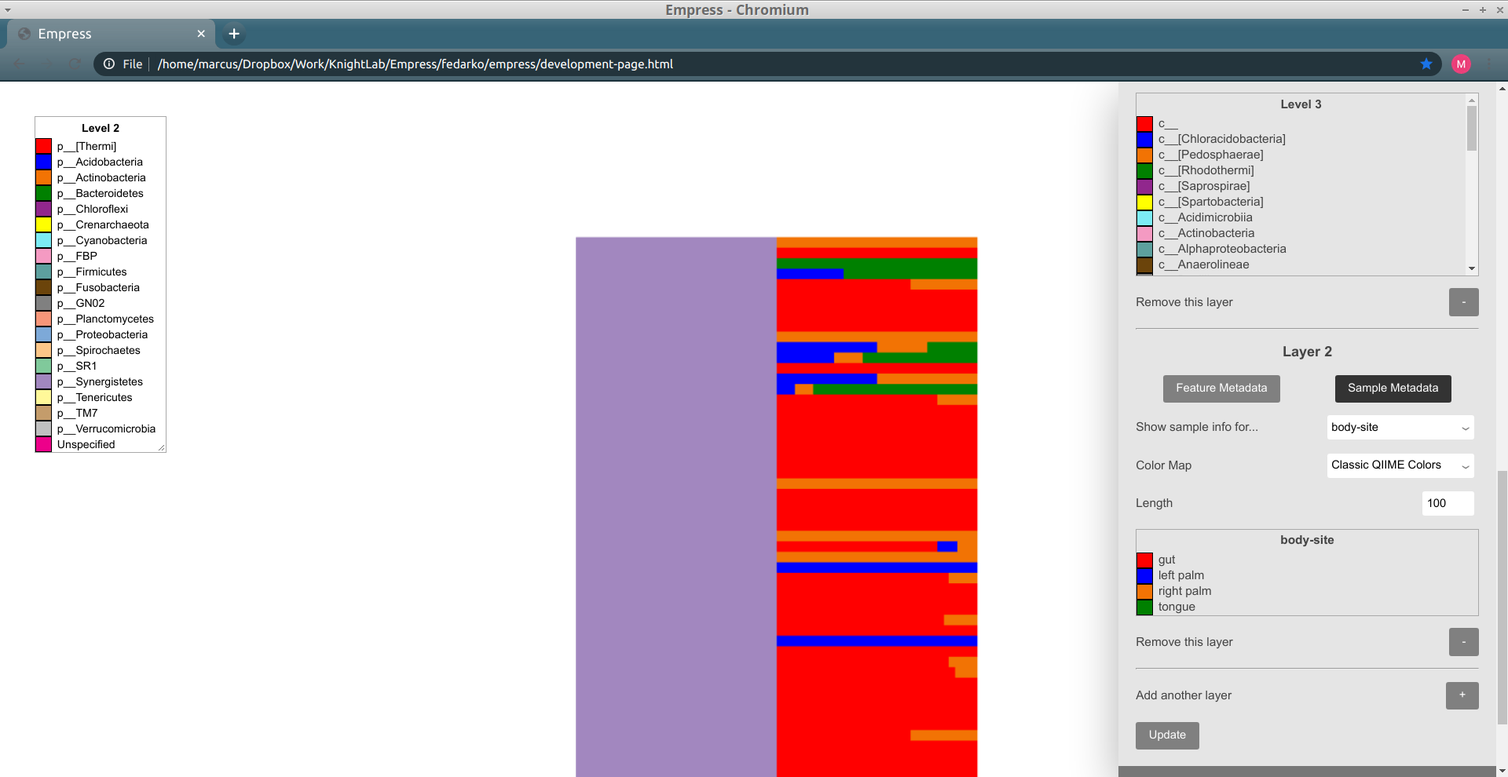
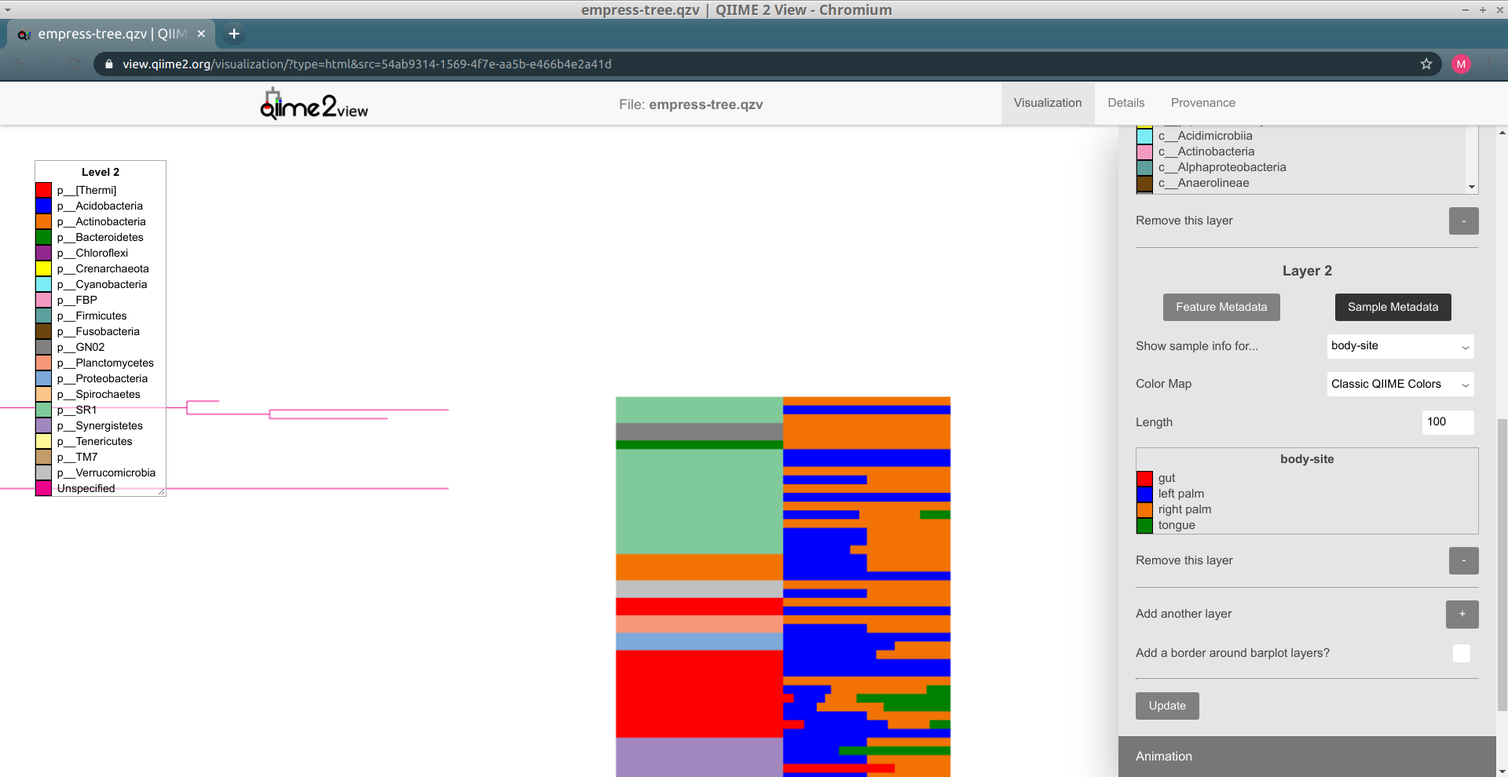
Update README screenshots/text; document Empire plot double-clicking; add citation, header image, etc. (#415)
* DOC: update README + screenshots

Addresses #413, but we should probs leave that open and change it
to an issue focused on making McHelper do this from now on ._.

* DOC: rm old imgs

replacing insets with gifs for ease of replication

* DOC: polish readme a bit more

* Make wording a bit more intuitive

"integration with animations" as implied didn't make sense

* Tidy MP intro

* external node -> tip for consistency's sake

* also

* leaf sorting clostridia fix

* fix barplot scrnsht 5

* rm ambiguity re: topmost node

* grammar and corynebact

* better cbact wording

* Document double-clicking in empire plots

* whoops and add gif

* clarify top screenshot caption

* to the left to the left

* grammarz

* something something spanish inquisition

* clarify that gg is optional

* be more conservative abt unspecifieds

* clarify unspecified paragraph more

* q2 2020.6 in links -> q2 2020.8

losing battle to maintain this but may as well make it right for now

* Phyla fix, and mention lack of color sync

* clarify matching stuff more

* clarify actinobacteria thing

* uncapitalize and fix phylum usage

* fix wording in gut/hand sample

* Rename double click gif

My adblocker was blocking it??? from
https://webmasters.stackexchange.com/a/26395 looks like this was
probs due to the "doubleclick" in the filename. argh.

* add note re hard-to-see colors

* spaces instead of tabs in bibtex

* Update README.md

* Update README.md

diff --git a/README.md b/README.md
@@ -5,18 +5,32 @@
 
 # Introduction  
 
-Empress is a fast and scalable [phylogenetic tree](https://en.wikipedia.org/wiki/Phylogenetic_tree) viewer that helps interactively explore the hierarchical relationships between features in a dataset. While historically these features often represented evolutionary relationships of species in community surveys, and are characterized by their phylogeny or genetic similarity/differences, you can in fact view any type of information with hierarchical organization. For example, you can view trees of [amplicon sequence variants (ASVs)](https://en.wikipedia.org/wiki/Amplicon_sequence_variant) for 16S rRNA marker gene sequencing data, or metabolite trees of LC-MS data using [q2-qemistree](https://github.com/biocore/q2-qemistree) ([ref](https://www.biorxiv.org/content/10.1101/2020.05.04.077636v1)).
+Empress is a fast and scalable [phylogenetic tree](https://en.wikipedia.org/wiki/Phylogenetic_tree) viewer that helps interactively explore the hierarchical relationships between features in a dataset.
+
+While historically these features have often represented evolutionary relationships of species in community surveys, and are characterized by their phylogeny or genetic similarity/differences, you can in fact view any type of information with hierarchical organization. For example, you can view trees of [amplicon sequence variants (ASVs)](https://en.wikipedia.org/wiki/Amplicon_sequence_variant) generated from 16S rRNA marker gene sequencing data, or metabolite trees of LC-MS data using [q2-qemistree](https://github.com/biocore/q2-qemistree) ([ref](https://www.biorxiv.org/content/10.1101/2020.05.04.077636v1)).
+
+Empress supports categorically new functionality, such as animations and
+integration with ordination plots, as well as functionality common to
+established tree viewers (e.g. metadata coloring, clade collapsing,
+and barplots).
+
+## Screenshot
+
+![Fancy Empire plot](docs/moving-pictures/img/empire_fancy.png)
+<div align="center">
+<i>"Empire plot" visualizing a phylogenetic tree of amplicon sequence variants (ASVs) in Empress, left, alongside a PCoA biplot in Emperor, right. As one of the ways in which these displays are integrated, selecting a tip in the tree (representing an ASV) enlarges the samples containing this ASV in Emperor -- thereby providing more information than would be available from either display alone.</i>
+</div>
 
 # Installation   
 
-Currently, Empress is only accessible as a QIIME 2 plugin. To follow this tutorial you will need to have a QIIME 2 (version 2019.10 or newer) conda environment installed and activated. See the [QIIME 2 installation](https://docs.qiime2.org/2020.6/install/) page for installation instructions.  
+Currently, Empress is only accessible as a QIIME 2 plugin. To follow the tutorial below you'll need to have a QIIME 2 (version 2019.10 or newer) conda environment installed and activated. See the [QIIME 2 installation](https://docs.qiime2.org/2020.8/install/) page for installation instructions.  
 Once you have QIIME 2 installed, make sure the conda environment is activated by running:
 
 ```
-conda activate qiime2-2020.6
+conda activate qiime2-2020.8
 ```
 
-You can replace `qiime2-2020.6` above with whichever version of QIIME 2 you have currently installed.  
+You can replace `qiime2-2020.8` above with whichever version of QIIME 2 you have currently installed.  
 
 Now we are ready to install Empress. Run the following commands to do so. (Note
 that Emperor will be _re-installed_ when the second command is run; the reason
@@ -32,9 +46,10 @@ qiime empress --help
 
 If you see information about Empress' QIIME 2 plugin, the installation was successful!
 
-# Example: Using Empress in QIIME 2   
+# Tutorial: Using Empress in QIIME 2   
 
-In this tutorial we will be using Empress within the QIIME 2 environment, and demonstrating its basic usage with the [Moving Pictures tutorial](https://docs.qiime2.org/2020.6/tutorials/moving-pictures/) dataset, a set of human microbiome samples from two individuals at four body sites across five timepoints.
+In this tutorial, we'll use Empress through QIIME 2 and demonstrate its basic usage with the [Moving Pictures tutorial](https://docs.qiime2.org/2020.8/tutorials/moving-pictures/) dataset. This dataset contains human microbiome samples from
+two individuals at four body sites across five timepoints.
 
 ## First, a note about Empress' commands
 
@@ -68,18 +83,18 @@ Both of these commands generate similar visualizations. The functionality availa
 
 ## Downloading Input Artifacts and Metadata  
 
-Before we start, we’ll need to download the necessary input artifacts for running `qiime empress community-plot`. The first four of these artifacts are produced during the [Moving Pictures tutorial](https://docs.qiime2.org/2020.6/tutorials/moving-pictures/), and the last artifact was produced afterwards using data from the tutorial. These artifacts are:
+Before we start, we’ll need to download the necessary input artifacts for running `qiime empress community-plot`. The first four of these artifacts are produced during the [Moving Pictures tutorial](https://docs.qiime2.org/2020.8/tutorials/moving-pictures/), and the last artifact was produced afterwards using data from the tutorial. These artifacts are:
 
 1. A feature table (a QIIME 2 artifact of type `FeatureTable[Frequency]`)
 2. A sample metadata file (a [tab-separated-value](https://en.wikipedia.org/wiki/Tab-separated_values) file)
 3. A rooted tree (a QIIME 2 artifact of type `Phylogeny[Rooted]`)
 4. Taxonomic assignments of our features (a QIIME 2 artifact of type `FeatureData[Taxonomy]`)
 5. A PCoA biplot results file (a QIIME 2 artifact of type `PCoAResults % Properties('biplot')`)
-    - This artifact in particular was produced by the [`qiime diversity pcoa`](https://docs.qiime2.org/2020.6/plugins/available/diversity/pcoa-biplot/) plugin, but ordinations / biplots created by other tools (e.g. [DEICODE](https://github.com/biocore/DEICODE/)) also work well with Empress.
+    - This artifact in particular was produced by the [`qiime diversity pcoa`](https://docs.qiime2.org/2020.8/plugins/available/diversity/pcoa-biplot/) plugin, but ordinations / biplots created by other tools (e.g. [DEICODE](https://github.com/biocore/DEICODE/)) also work well with Empress.
 
 The last item is required only when displaying an Empress tree plot in tandem with an Emperor PCoA plot/biplot (a.k.a. an Empire plot!)
 
-You can download these files individually by clicking the links below, or using `wget` to download them directly from your terminal.  
+You can download these files individually by clicking the links below or by using `wget` to download them directly from your terminal.  
 
 - `table.qza` [view](https://view.qiime2.org/?src=https%3A%2F%2Fdocs.qiime2.org%2F2019.10%2Fdata%2Ftutorials%2Fmoving-pictures%2Ftable.qza) | [download](https://docs.qiime2.org/2019.10/data/tutorials/moving-pictures/table.qza)
 - `sample_metadata.tsv` [download](https://data.qiime2.org/2019.10/tutorials/moving-pictures/sample_metadata.tsv)
@@ -87,14 +102,14 @@ You can download these files individually by clicking the links below, or using 
 - `taxonomy.qza` [view](https://view.qiime2.org/?src=https%3A%2F%2Fdocs.qiime2.org%2F2019.10%2Fdata%2Ftutorials%2Fmoving-pictures%2Ftaxonomy.qza) | [download](https://docs.qiime2.org/2019.10/data/tutorials/moving-pictures/taxonomy.qza)
 - `biplot.qza` [view](https://view.qiime2.org/?src=https%3A%2F%2Fraw.githubusercontent.com%2Fbiocore%2Fempress%2Fmaster%2Fdocs%2Fmoving-pictures%2Fbiplot.qza) | [download](https://raw.githubusercontent.com/biocore/empress/master/docs/moving-pictures/biplot.qza)
 
-First we’ll create a directory to download our files to and change into it:  
+First we’ll create a directory which we'll download our files to and move into it:
 
 ```bash
 mkdir empress-tutorial
 cd empress-tutorial
 ```
 
-Now download the files:   
+Now we'll download the files using `wget`:
 ```bash
 wget https://docs.qiime2.org/2019.10/data/tutorials/moving-pictures/table.qza
 wget https://data.qiime2.org/2019.10/tutorials/moving-pictures/sample_metadata.tsv
@@ -103,11 +118,13 @@ wget https://docs.qiime2.org/2019.10/data/tutorials/moving-pictures/taxonomy.qza
 wget https://raw.githubusercontent.com/biocore/empress/master/docs/moving-pictures/biplot.qza
 ```
 
-We are now ready to create our interactive tree plot.  
+We are now ready to visualize this data using Empress.
 
 ## Empress Plot  
 
-We’ll start with a simple stand-alone tree visualization artifact and explore our tree using the various features in Empress.
+We’ll start by creating a simple stand-alone tree visualization artifact, which
+will enable us to explore the tree using the various functionalities available
+in Empress.
 
 ```bash
 qiime empress community-plot \
@@ -119,51 +136,63 @@ qiime empress community-plot \
 ```
 - `empress-tree.qzv` [view](https://view.qiime2.org/?src=https%3A%2F%2Fmchelper.ucsd.edu%2Fdownloads%2Fempress%2Fmaster%2Fempress-tree.qzv) | [download](https://mchelper.ucsd.edu/downloads/empress/master/empress-tree.qzv)
 
-To view the newly made `empress-tree.qzv` artifact, you can drag and drop the file onto [https://view.qiime2.org/](https://view.qiime2.org/) or load it locally by running:   
+To view the newly made `empress-tree.qzv` artifact, you can drag and drop the file onto [https://view.qiime2.org/](https://view.qiime2.org/) or load it locally by running:
 
 ```bash
 qiime tools view empress-tree.qzv
 ```
 ![empress_plain](docs/moving-pictures/img/empress_plain.png)
 
-The starting plot is a simple unrooted tree which has all the normal properties of a phylogenetic tree. The outermost “tips” of the tree are referred to as “leaves”, “terminal nodes”, or “external nodes” and here represent a unique ASV. The line connected to this external node is referred to as a “branch”. A branch connects two or more nodes, in this case an external node to an internal node. These internal nodes represent a divergent point between nodes and the branch length represents the evolutionary distance between divergence points.
+The starting plot is a simple unrooted tree which has all the normal properties of a phylogenetic tree. The outermost “tips” of the tree are also referred to as “leaves”, “terminal nodes”, or “external nodes” and here represent a unique ASV. The line connected to a tip is referred to as a “branch”. A branch connects two or more nodes, or in this case a tip to an internal node. These internal nodes represent a divergent point between nodes and the branch length represents the evolutionary distance between divergence points.
 You can use your mouse’s scroll wheel to zoom in and out, and click and drag anywhere on the plot to move the display to take a closer look at the various tree components. On the top-right we see a display menu with several subcategories that allow us to customize the plot. We will explore these options in more detail below.  
 
 
 ### Exploring individual features  
 
-The first thing you likely noticed in this plot is the presence of several very long branches that stand out relative to the others. Let’s investigate these further. Zoom in on the external node of the longest branch and click on the node.   
+The first thing you likely noticed in this plot is the presence of several very long branches that stand out relative to the others. Let’s investigate these further. Zoom in on the tip of the longest branch and click on the node.   
 
+![empress_plain_first_outlier](docs/moving-pictures/img/empress_plain_first_outlier.png)
 
-A new menu appears with details about the selected node, including its name and taxonomic assignment. You’ll notice that this feature has -unexpectedly- only been classified at the Kingdom level, meaning that our feature-classifier was not able to find a suitable match in our reference database (Greengenes).  More often than not, these features correspond to non-biological reads such as chimeras, contaminants, or reads that have [index-hopped](https://www.illumina.com/content/dam/illumina-marketing/documents/products/whitepapers/index-hopping-white-paper-770-2017-004.pdf) from other samples. We will explore these possibilities further later. Also note that the tree used in this tutorial was built using the common *de novo* tree-building approach and it has previously been shown that the presence of these outlier branches in *de novo* trees can lead to artificial clustering of samples [(Janssen et. al 2018)](https://msystems.asm.org/content/3/3/e00021-18).
-In this window we can also select to view details about sample-metadata related to this feature. From the drop down menu select `body-site` and click the *Add* button. A new *Sample Presence Information* summary table appears which displays the number of samples containing the selected feature. We can see that our ASV is present in only 1 *left palm* sample. You can select multiple metadata columns. While the table here does not give us information about the abundance of this feature, we can easily search the feature name in the [feature table summary visualization](https://view.qiime2.org/visualization/?src=https%3A%2F%2Fdocs.qiime2.org%2F2020.6%2Fdata%2Ftutorials%2Fmoving-pictures%2Ftable.qzv&type=html) artifact created previously in Moving Pictures tutorial. From there we see that this particular feature has a total abundance of 2, which is another strong indicator of a non-biological read. Try clicking the external nodes in a few other outlier branches. Do you see a similar pattern? Now try clicking on an external node of one of the shorter branches. Notice the much improved classification!
+A new menu appears with details about the selected node, including its name and taxonomic assignment. You’ll notice that this feature has only been classified at the Kingdom level, meaning that our feature-classifier was not able to find a suitable match in the reference database used to assign these taxonomy classifications (in this case, Greengenes). More often than not, these features correspond to non-biological reads such as chimeras, contaminants, or reads that have [index-hopped](https://www.illumina.com/content/dam/illumina-marketing/documents/products/whitepapers/index-hopping-white-paper-770-2017-004.pdf) from other samples. We will explore these possibilities further later.
 
-![empress_search_feature](docs/moving-pictures/img/empress_search_features.png)
+We should also note that the tree used in this tutorial was built using the common *de novo* tree-building approach, and it has previously been shown that the presence of these outlier branches in *de novo* trees can lead to artificial clustering of samples [(Janssen et. al 2018)](https://msystems.asm.org/content/3/3/e00021-18).
+
+In this window we can also view details about sample metadata related to this feature. From the drop-down menu select `body-site` and click the *Add* button. A new *Sample Presence Information* summary table appears which displays the number of samples containing the selected feature.
+
+![empress_plain_first_outlier_2](docs/moving-pictures/img/empress_plain_first_outlier_2.png)
+
+We can see that our ASV is present in only 1 *left palm* sample. You can select multiple metadata columns. While the table here does not give us information about the abundance of this feature, we can easily search the feature name in the [feature table summary visualization](https://view.qiime2.org/visualization/?src=https%3A%2F%2Fdocs.qiime2.org%2F2020.8%2Fdata%2Ftutorials%2Fmoving-pictures%2Ftable.qzv&type=html) artifact created previously in the QIIME 2 Moving Pictures tutorial. From there we see that this particular feature has a total abundance of 2, which is another strong indicator of a non-biological read. Try clicking the tips in a few other outlier branches. Do you see a similar pattern? Now try clicking on a tip of one of the shorter branches. Notice the much improved classification!
 
 We can also locate specific features of interest using the search bar at the top of the main menu. For example, in our feature-table the most abundant ASV is `4b5eeb300368260019c1fbc7a3c718fc`. Paste this name in to the search bar and click *Search*.  
-The feature’s external node is now highlighted on the tree as a bright green circle. The most abundant ASV is a species belonging to the Bacteroides genus.  
+This feature’s tip in the tree is now highlighted with a bright green circle.
+It looks like this ASV is a species belonging to the _Bacteroides_ genus, and
+is present in all of the four "body sites" included in this data (although it's
+only present in one tongue sample).
+
+![empress_search_feature](docs/moving-pictures/img/empress_search_features.png)
 
 
 ### Exploring groups of features
 
-Another way of exploring the classification of our features is to color the branches based on their taxonomic designation. From the main menu, click *Feature Metadata Coloring*, check the *Color by…* box and select *Level 2* which here corresponds to the Phylum level, and click *Update*.  
+Another way of exploring the classification of our features is to color the branches based on their taxonomic designation. From the main menu, click *Feature Metadata Coloring*, check the *Color by…* box, select *Level 2* (which here corresponds to the phylum level), and click *Update*.
 
 ![empress_unrooted_feature_coloring](docs/moving-pictures/img/empress_unrooted_feature_coloring.png)
 
-The plot is now updated so each branch is now colored by its Phylum level classification. We can see that the extra long branches are all the same color. Hover the cursor over the legend box and scroll to the bottom. The magenta color corresponds to an *Unspecified* Phylum. You may also have noticed that these outlier branches appear mainly in 2 distinct clusters. While we don’t have any more information about the classification of these features, perhaps we can gain some more insight regarding their classification by looking at their closest common ancestors that do have taxonomic information.   
+The plot is now updated so each branch is now colored by its phylum-level classification. We can see that the extra long branches are now mostly the same magenta color. Check out the legend on the left side of the screen -- it turns out that the magenta color corresponds to an *Unspecified* phylum. You may also have noticed that these outlier branches appear mainly in 2 distinct clusters. While we don’t have any more information about the classification of these features, perhaps we can gain some more insight regarding their classification by looking at their closest common ancestors that do have taxonomic information.   
 
 ### Exploring a feature’s closest common ancestors  
 
 So far, we’ve looked at our data using the default unrooted tree view. To visually locate these features’ closest common ancestors, it may be easier to switch to a different layout. From the main menu, click *Layout* then select *Circular* (or *Rectangular*). Our plot automatically switches to a rooted layout.
 
-Now zoom into the longest branch of the top cluster and click on the closest external node that has a different Phylum classification (light blue).   
+![empress_circular_feature_coloring](docs/moving-pictures/img/empress_circular_feature_coloring.png)
+
+Now, let's zoom into the longest branch of the bottom cluster of *Unspecified* nodes and click on one of the close tips that has a different phylum classification (light blue).   
 
 ![empress_circular_common_ancestor](docs/moving-pictures/img/empress_circular_common_ancestor.png)
 
 Interestingly, we see that this node is classified as _Acanthamoeba Palestinensis_ which is actually not a bacteria but rather a protozoa. It is not uncommon for certain Eukaryotes to appear in bacterial/archaeal reference databases as they may share a similar genetic lineage. Remember that mitochondria and chloroplasts likely evolved from prokaryotes themselves. Explore a few other common ancestral nodes from different outlier branches. We can see other surprising appearances by _Cucurbita pepo_ (a variety of squash or pumpkin), _Raphanus sativus_ (radish), and _Streptophyta_ (an order of plants). Based on these results one might speculate that our *Unspecified* features likely also belong to either plants or protozoa groups rather than bacteria. Further, since these features appear only on the palm samples, it’s possible the source of these are in fact environmental contaminants rather than common human microbes.  
 
-In summary, given the branch length of these features, their very low abundance, lack of close matches in the reference database, and having non-microbial closest common ancestors, it is probably safe to filter these features from our table as non-biologically relevant reads.  
-
+Summarizing things for these *Unspecified*-phylum features: in general, given their relatively long branch lengths, their presence in few samples in the study in some cases at relatively low abundance, their lack of close matches in the reference database, and the fact that they are putatively related to non-microbial features, it may be safe to filter them from our table as non-biologically relevant reads. (That conclusion is just based on the results of this exploratory analysis, not a strict guideline.)
 
 ### Identifying group-specific features   
 
@@ -171,7 +200,7 @@ The composition of microbial communities of the gut, tongue, and palms are very 
 
 ![empress_sample_metadata_coloring](docs/moving-pictures/img/empress_sample_metadata_coloring.png)
 
-In this plot the colored branches represent lineages that are unique to the corresponding body site while the greyed branches are those that are shared across at least 2 body-sites and thus cannot be displayed with a single color. While it is not surprising to see a large number of unique features in the gut samples (red) compared to the palm samples (blue and orange), it is interesting to see a large number of unique features between the left and right palm. Can you think of any biological reasons why the left and right palms may contain such different unique microbes? Even though the left and right palm do harbor unique features, the representative clades appear more integrated among themselves, suggesting that their phylogeny are still more similar to each other than the gut taxa which appear to cluster mainly among themselves.  
+In this plot the colored branches represent lineages that are unique to the corresponding body site, while the uncolored branches are those that are shared across at least 2 body sites and thus cannot be displayed with a single color. While it is not surprising to see a large number of unique features in the gut samples (red) compared to the palm samples (blue and orange), it is interesting to see a large number of unique features between the left and right palm. Can you think of any biological reasons why the left and right palms may contain such different unique microbes? Even though the left and right palm do harbor unique features, the representative clades appear more integrated among themselves, suggesting that their phylogeny are still more similar to each other than the gut taxa which appear to cluster mainly among themselves.  
 
 ### Visualizing feature / sample metadata in barplots
 
@@ -213,7 +242,7 @@ Since both the node colorings and the barplot layer are now showing the same inf
 
 ![empress barplots: class coloring and tree phylum coloring](docs/moving-pictures/img/empress_barplots_4.png)
 
-Things still seem mostly the same as before, but some of the large groups of phyla have now been split up into collections of different classes. Notice how the lavender-colored class is present at roughly five separate "clusters" throughout the tree: are all of these the same class? We can tell from the legend for this layer (under the heading `Level 3`) that there is only one class colored lavender here, `c__Clostridia`.
+Things still seem mostly the same as before, but some of the large groups of phyla have now been split up into collections of different classes. Notice how the lavender-colored class is present at multiple "clusters" throughout the tree: are all of these the same class? We can tell from the legend for this layer (under the heading `Level 3`) that there is only one class colored lavender here, `c__Clostridia`.
 
 So, these lavender classes are all *Clostridia*. Does it make sense that representatives of this class are spread out throughout the tree so much? Unfortunately, yes, since *Clostridia* are -- to quote [Wikipedia](https://en.wikipedia.org/wiki/Clostridia) -- "a highly [polyphyletic](https://en.wikipedia.org/wiki/Polyphyly) class." (As an exercise, we recommend trying out adding on extra barplot layers for lower levels of taxonomy -- order, family, genus, etc. -- and seeing how things change.)
 
@@ -237,7 +266,9 @@ Layer 2 now shows a stacked barplot for each tip, based on the proportions of sa
 
 ![empress barplots: zoomed in on barplots: class coloring layer 1, bodysite layer 2](docs/moving-pictures/img/empress_barplots_7.png)
 
-The top-most tip is only present in right palm samples (colored orange), the second-from-the-top tip is only present in gut samples (colored red), and so on. The length taken up by a "block" for a given tip is proportional to how many samples of that type contain the tip (relative to the total number of samples containing the tip; it's [not absolute](https://github.com/biocore/empress/issues/322)) -- so the fourth-from-the-top tip, for example, is present in mostly tongue samples but also present (albeit in fewer) left palm samples. When we click on this tip (name `9f1913b781d2cde1c8a4c57b7dc2ab83`) in the tree, we can see that this matches up with the _Sample Presence Information_ `body-site` summary for this tip: it's present in 2 tongue samples and 1 left palm sample.
+The top-most tip is only present in right palm samples (colored orange), the second-from-the-top tip is only present in left palm samples (colored blue), and so on. The length taken up by a "block" for a given tip is proportional to how many samples of that type contain the tip (relative to the total number of samples containing the tip; it's [not absolute](https://github.com/biocore/empress/issues/322)).
+
+These sample metadata barplots should match up with the `Sample Presence Information` -- try clicking on the top-most tip, `35bfc371d940cffdc527b7b4dc954456`. We know from the barplot that this tip is only present in one right palm sample, and the `Sample Presence Information` summary by `body-site` for this tip confirms this.
 
 #### Barplots of continuous feature metadata
 
@@ -288,7 +319,14 @@ Currently, certain elements of the display (e.g. barplots, collapsed clades) are
 
 ## Empire plots! Side-by-side integration of tree and PCoA plots  
 
-Now that you are familiar with basics, let’s try something a bit more advanced. One of the unique features of Empress is its ability to integrate a tree plot with an [Emperor](http://biocore.github.io/emperor) PCoA plot and visualize them side-by-side (these plots are internally referred to as Empire plots). To achieve this we provide a PCoA matrix (`PCoAResults` type artifact), which can be any beta diversity distance matrix, including biplots. Ordination biplots that are made using the [`qiime diversity pcoa-biplot`](https://docs.qiime2.org/2020.6/plugins/available/diversity/pcoa-biplot/) plugin, incorporate feature loadings represented by arrows that describe explanatory variables in the dataset. This functionality is also compatible with [`DEICODE` biplots](https://github.com/biocore/deicode). In this example we’ll use a PCoA biplot calculated using Unweighted UniFrac distances. To create this new plot, run the following:
+Now that you are familiar with basics, let’s try something a bit more advanced. One of the unique features of Empress is its ability to integrate a tree plot with an [Emperor](http://biocore.github.io/emperor) ordination plot and visualize them side-by-side (we've taken to calling these Empire plots).
+
+To achieve this, we can provide a QIIME 2 artifact of the type `PCoAResults` to `qiime empress community-plot`. (Note that although the type is `PCoAResults` this can be any ordination matrix; it's totally possible to visualize the results of PCA, or even a biplot, here instead.)
+
+Biplots include feature loadings represented by arrows that describe explanatory variables (in this case, ASVs) in the dataset.  Here, we'll visualize a PCoA biplot made using the [`qiime diversity pcoa-biplot`](https://docs.qiime2.org/2020.8/plugins/available/diversity/pcoa-biplot/) plugin. This biplot was computed using Unweighted [UniFrac](https://en.wikipedia.org/wiki/UniFrac) distances. (This functionality is also compatible with [`DEICODE` biplots](https://github.com/biocore/deicode), of course.)
+
+To visualize an Empire plot (both the tree and this PCoA biplot together), run
+the following command:
 
 ```bash
 qiime empress community-plot \
@@ -304,30 +342,56 @@ qiime empress community-plot \
 
 - `empire-biplot.qzv` [view](https://view.qiime2.org/?src=https%3A%2F%2Fmchelper.ucsd.edu%2Fdownloads%2Fempress%2Fmaster%2Fempire-biplot.qzv) | [download](https://mchelper.ucsd.edu/downloads/empress/master/empire-biplot.qzv)
 
-Load the new Empire plot. Here we see the Empress plot as before on the left, and on the right is an Emperor PCoA biplot. If you are unfamiliar with Emperor plots, you can learn more about them [here](http://biocore.github.io/emperor). Briefly, each individual circle represents a single sample’s microbial community and the distances between these circles corresponds to the Unweighted UniFrac distance between them in a reduced dimensional space. The top 10 explanatory features are shown as arrows alongside their id names. The number of features that is shown on the biplot is determined by the `--p-number-of-features` parameter.
-For clarity, let’s remove the long feature-id labels. Right click anywhere on the Emperor plot and select *Toggle label visibility*. Next, in Emperor, from the main menu click on *Select a color category* and select `body-site` under the *scatter* subheading. Now our samples are color coded based on their body site origin. Notice the clear clustering of these sample-types. Next, click on the same drop-down menu and this time under the *biplot* subheading select `Level 2`. Now we can see the top explanatory features (arrows) colored by their Phyla designation. Switch over to Empress, change the plot layout to *Circular*, and set the *Feature metadata coloring* to `Level 2` also. Minimize the menu bar to fully appreciate the plots!   
+Load the new Empire plot. Here we see the Empress plot as before on the left, and on the right is an Emperor PCoA biplot. If you are unfamiliar with Emperor plots, you can learn more about them [here](http://biocore.github.io/emperor). Briefly, each individual circle represents a single sample’s microbial community and the distances between these circles corresponds to the Unweighted UniFrac distance between them in a reduced dimensional space. The top 10 explanatory features are shown as arrows alongside their feature IDs. The number of features that is shown on the biplot is determined by the `--p-number-of-features` parameter.
+
+At first, the plot may look a bit messy. For clarity, let’s remove the long feature ID labels. Right click anywhere on the Emperor plot and select *Toggle label visibility*. Next, in Emperor, from the main menu click on *Select a color category* and select `body-site` under the *scatter* subheading. Now our samples are color-coded based on their body site origin. Notice the clear clustering of these sample-types. Next, click on the same drop-down menu and this time under the *biplot* subheading select `Level 2`. Now we can see the top explanatory features (arrows) colored by their phylum-level classification. Switch over to Empress, change the plot layout to *Circular*, and set the *Feature Metadata Coloring* to `Level 2` also. Minimize the menu bar to fully appreciate the plots!   
 
 ![empire_plain](docs/moving-pictures/img/empire_plain.png)
 
-### Interacting with tree-PCoA plots  
+(Note that the tree and arrow colorings don't necessarily match up between Empress and Emperor—for example, in the screenshot above Actinobacteria-phylum arrows are colored red in Emperor but Actinobacteria-phylum nodes are colored orange in Empress. If you'd like, you can change the arrow colors in Emperor to match the colors Empress assigned. Fixing this is [on our radar](https://github.com/biocore/empress/issues/369).)
 
-Looking at our Emperor plot, we see a single feature from the Actinobacteria Phylum (small red arrow) that is associated with the palm samples. Click on this arrow; two changes automatically occur: 1) on the Emperor plot, the samples that contain that feature will go dim, and 2) in Empress, the plot will zoom in on the external node corresponding to that feature, where you can explore the feature’s details further as before.  
+### Interacting with Empire plots  
+
+Looking at our Emperor ordination plot (on the right), we see a single feature classified in the phylum Actinobacteria (a small red arrow) that is associated with the palm samples. It's pointing towards the bottom-right of the ordination, when looking at it in the default camera position.
+
+Click on this arrow (you may have to zoom in a bit in Emperor to do so). Two changes will automatically occur:
+
+1. In Empress, the plot will zoom in on the node corresponding to this feature
+   and open a menu. From here, you can explore the details for this feature
+   (which it turns out was classified as _Corynebacterium_ sp.) further,
+   just like we did before.
+2. On the Emperor plot, the samples that contain this feature will be enlarged,
+   clearly highlighting them in contrast to the other samples that do not
+   contain this feature.
 
 ![empire_feature_arrow_selection](docs/moving-pictures/img/empire_feature_arrow_selection.png)
 
-This interaction between Empress and Emperor can go the other direction. Selecting a node on the Empress plot will dim the samples in Emperor in which that feature is present in.  
+This interaction between Empress and Emperor can go the other direction. Selecting a node on the Empress plot will enlarge the samples in Emperor in which that feature is present.
 
-Another way to explore our data is to select samples on Emperor and look for the corresponding features in Empress. In Emperor, hold the shift button and draw a box around a sample. The Empress plot will now temporarily highlight the branches corresponding to that sample. If you select multiple samples from different body-sites, Empress will only highlight the branches/nodes that are unique to those sample types. The shared branches remain grey. Let’s see how we can utilize this function in our dataset.   
-You may have noticed that in the Emperor plot, one of the *Right Palm* samples, is strangely clustering closer to the gut samples rather than the other palm samples. On Emperor, select some of the gut samples as well as some of the palm samples from the right hand side, taking care to not include the outlier palm sample on the left. On the Empress plot you will see several branches light up as either red, orange, or blue. These colors represent the unique features found in only that body-site, shared features are left grey.  
+Another way to explore our data is to select samples on Emperor and look for the corresponding features present in these samples in Empress. In Emperor, hold the shift button and draw a box around a sample. The Empress plot will now temporarily highlight the branches corresponding to that sample. If you select multiple samples from different body-sites, Empress will only highlight the branches/nodes that are unique to those sample types. The shared branches remain uncolored. Let’s see how we can utilize this function in our dataset.
 
+You may have noticed that in the Emperor plot one of the *Right Palm* samples is strangely clustering closer to the gut samples rather than the other palm samples. On Emperor, select some of the gut samples as well as some of the palm samples from the right hand side, taking care to not include the outlier palm sample on the left. On the Empress plot you will see several branches light up as either red, orange, or blue. These colors represent the unique features found in only that body-site; shared features are left uncolored.  
 
-![empire_sample_selection_gut_and_palm](docs/moving-pictures/img/empire_sample_selection_gut_and_palm.png)
+![empire_sample_selection_gut_and_palm](docs/moving-pictures/img/empire_sample_selection_gut_and_palm.gif)
 
-Once the samples have been deselected (within a couple of seconds), select the outlier palm sample + one of the gut samples. What do you notice? You’ll see that there are very few unique orange branches light up, suggesting that this sample shares many more features with the gut samples than the other palm samples.  
+Once the samples have been deselected (within a couple of seconds), select the outlier palm sample + one of the gut samples. What do you notice? You’ll see that comparatively few unique red or orange branches light up, suggesting that this sample shares many more features with the gut samples than the other palm samples.
 
-![empire_sample_selection_outlierpalm_plus_gut](docs/moving-pictures/img/empire_sample_selection_outlierpalm_plus_gut.png)
+![empire_sample_selection_outlierpalm_plus_gut](docs/moving-pictures/img/empire_sample_selection_outlierpalm_plus_gut.gif)
 
 This is a good example of when your data can tell you something about your metadata that you may have missed. In reality, in this experiment, this palm sample was in fact mislabelled by accident.  
+
+The integration between Empress and Emperor can go even further than this.
+Rather than selecting a group of samples manually, we may want to just select
+all samples in a certain group (e.g. for this dataset, all gut samples at
+once), to show which features are present in these samples. This can be done by
+double-clicking on a sample coloring category in Emperor, as shown below:
+
+![empire_groupselection](docs/moving-pictures/img/empire_groupselection.gif)
+
+This makes it easy to get a quick glance at which parts of the tree are "used"
+within a certain group of samples. (If you have a hard time viewing certain colors
+on the tree—for example, distinguishing the blue color for left palm samples from the
+default dark-gray node color—you may want to adjust the sample group colors in Emperor.)
 
 ## Additional Considerations
 
@@ -382,6 +446,26 @@ The commands in this README use the *raw dataset*. The Empire plot command remov
 <!---# Animations   
 
 One unique feature that makes Empress useful for exploring time-series data or making exciting presentations is its animation capability, which allows us to stratify and view our data at each time point rather than all at once. To set up the animation sequence, click on the Animation section from the main menu. From the *Gradient* drop-down menu, select `days-since-experiment-start`, the number of unique values in this column will be equal to the number of sequences we see in the final animation. From the *Trajectory* drop-down menu, select `body-site`, this will be the grouping factor by which the branch colors will be set to. Remember that colors on the plot represent branches unique to that group, branches that are shared between groups are not colored. Click on the `Start` button to initiate the animation and minimize the menu to view the full plot. You will begin to see a sequence of plots (automatically changing every few seconds) that represent the data at each time point found in the *days-since-experiment-start* column. At any point you can pause the animation by clicking on the `Pause` button and manually browse through the time points using the `Next Frame`, `Previous Frame`, or `Resume` buttons. Click `Stop` to terminate the animations. --->
+
+# Publication and Citation
+
+A preprint describing Empress is available on bioRxiv
+[here](https://www.biorxiv.org/content/10.1101/2020.10.06.327080v1). If you use
+Empress in your work, please cite it! The BibTeX for this preprint is:
+
+```
+@article {Cantrell2020.10.06.327080,
+    author = {Cantrell, Kalen and Fedarko, Marcus W and Rahman, Gibraan and McDonald, Daniel and Yang, Yimeng and Zaw, Thant and Gonzalez, Antonio and Janssen, Stefan and Estaki, Mehrbod and Haiminen, Niina and Beck, Kristen L. and Zhu, Qiyun and Sayyari, Erfan and Morton, Jamie and Tripathi, Anupriya and Gauglitz, Julia M and Marotz, Clarisse and Matteson, Nathaniel L and martino, cameron and Sanders, Jon G and Carrieri, Anna Paola and Song, Se Jin and Swafford, Austin D and Dorrestein, Pieter and Andersen, Kristian G and PARIDA, LAXMI and Kim, Ho-Cheol and V{\'a}zquez-Baeza, Yoshiki and Knight, Rob},
+    title = {EMPress enables tree-guided, interactive, and exploratory analyses of multi-omic datasets},
+    elocation-id = {2020.10.06.327080},
+    year = {2020},
+    doi = {10.1101/2020.10.06.327080},
+    publisher = {Cold Spring Harbor Laboratory},
+    URL = {https://www.biorxiv.org/content/early/2020/10/08/2020.10.06.327080},
+    eprint = {https://www.biorxiv.org/content/early/2020/10/08/2020.10.06.327080.full.pdf},
+    journal = {bioRxiv}
+}
+```
 
 # Acknowledgements
 
